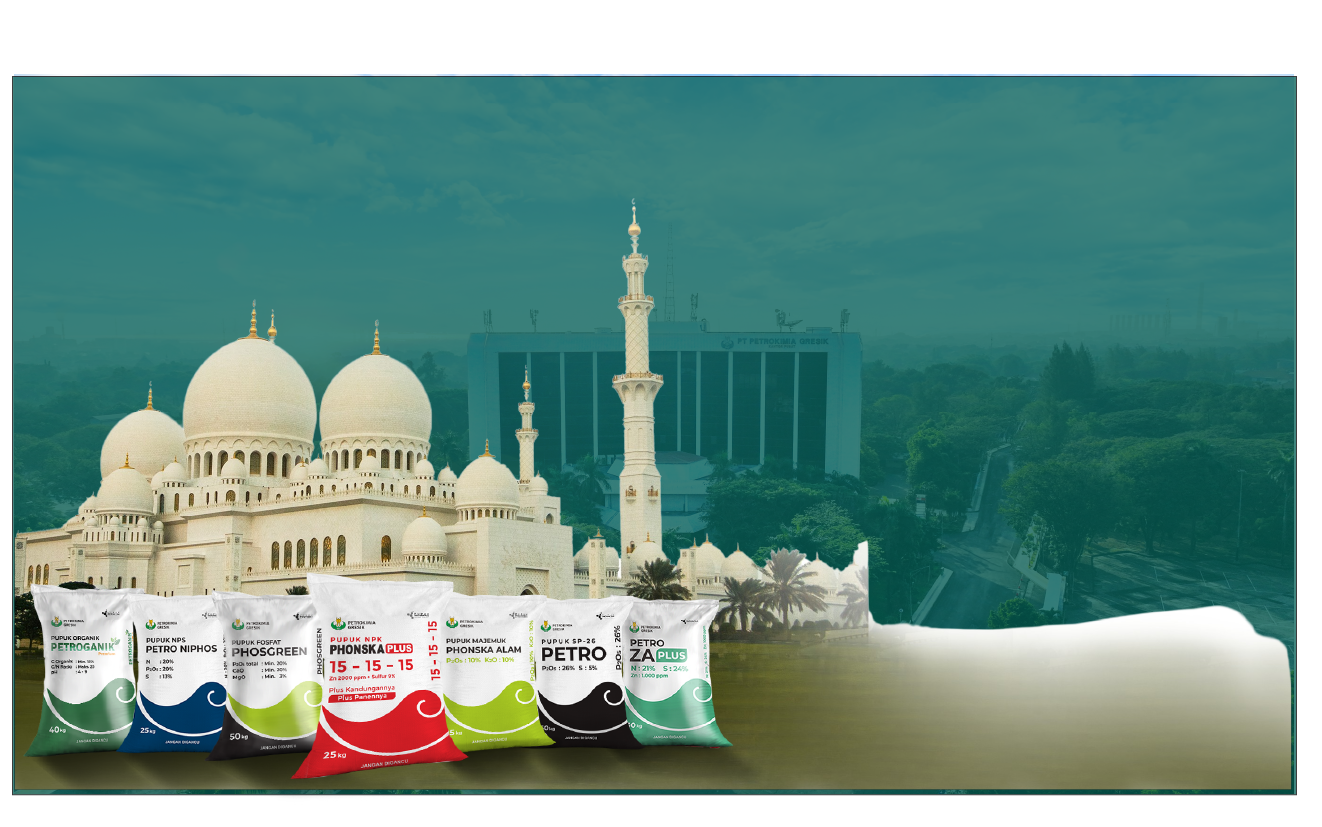
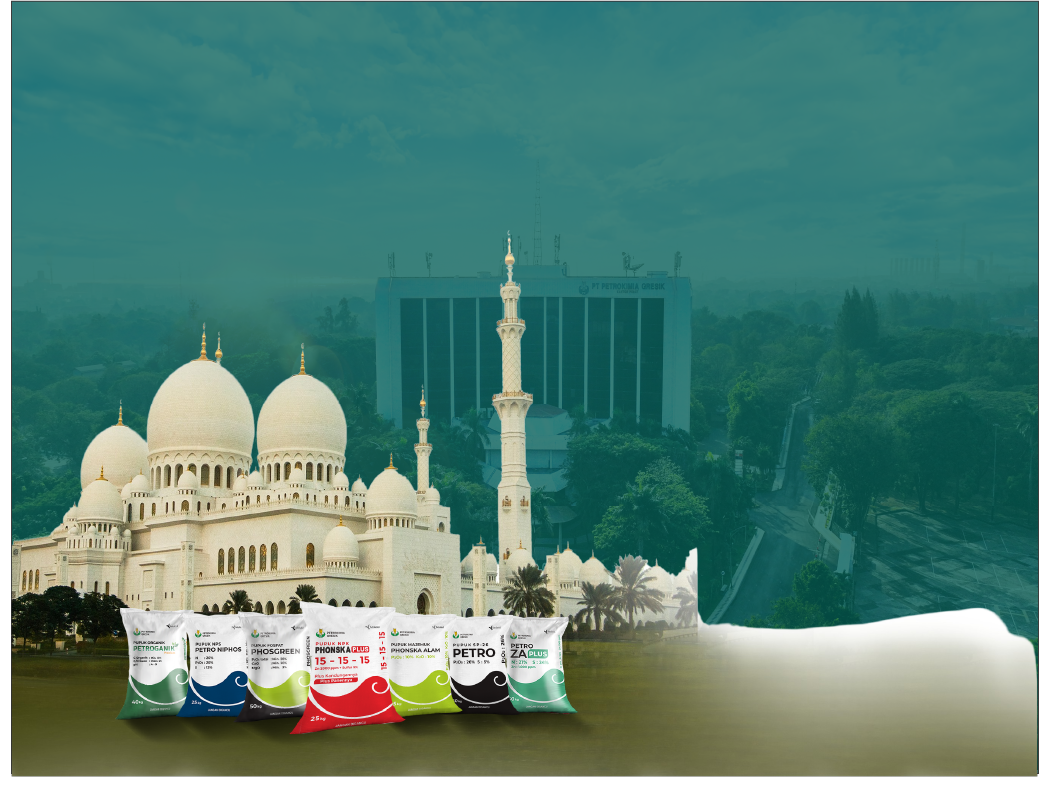
master1

diff --git a/pages/calendar/detail.tsx b/pages/calendar/detail.tsx
@@ -122,8 +122,8 @@ export default function Demo({ data, setModal }: any) {
   const selectedScheduleImage =
     scheduleImage[Math.min(Math.max(page - 1, 0), scheduleImage.length - 1)];
   return (
-  <BackgroundImage src="/background5.png" pr={{xl:"4%", lg:"1%", base:"0%"}}>
-      <Container bg={{xl:"transparent", base:"#005E6A"}} fluid>
+  <BackgroundImage src="/background1.png" pr={{xl:"4%", lg:"1%", base:"0%"}} w={{xl:"100%"}}>
+      <Container bg={{xl:"transparent",lg:"transparent", base:"#005E6A"}} w={{lg:"80%", xl:"100%"}}>
             <Container
               pos="relative"
               ml={{ xl: "30%", lg: "25%", base: "10%" }}
@@ -168,7 +168,7 @@ export default function Demo({ data, setModal }: any) {
             <Container w="100%">
               
               <Grid pt="20px" mr={{xl:"0%", lg:"0%", base:"0%"}}>
-                <Grid.Col span={{ xl: 5, lg: 6, base: 12 }}>
+                <Grid.Col span={{ xl: 7, lg: 6, base: 12 }}>
                   <Container
                     mt={{ xl: "30%", lg: "30%", base: "5%" }}
                     mr={{ xl: "20%", lg: "20%" }}
@@ -180,8 +180,9 @@ export default function Demo({ data, setModal }: any) {
                     /> */}
                   </Container>
                 </Grid.Col>
-                <Grid.Col span={{ xl: 7, lg: 6, base: 12 }} ml={{xl:"75%", lg:"75%", base:"0%"}}>
-                  <Container ml={{ xl: "17%", lg: "15%", base: "5%" }}>
+                {/* Menggeser Gambar Waktu Shalat */}
+                <Grid.Col span={{ xl: 5, lg: 6, base: 12 }} ml={{xl:"80%", lg:"70%", base:"0%"}}>
+                  <Container ml={{ xl: "22%", lg: "5%", base: "5%" }} w="100%">
                     <Image
                       w={{ xl: "80%", lg: "75%", base: "95%" }}
                       src={selectedDayImage}
@@ -199,15 +200,16 @@ export default function Demo({ data, setModal }: any) {
                             </Group>
                         </Flex>        
                     </Container>  */}
-                  <Container pb="10px" mt="10px">
-                    <Text ta="center" c="#FFD700">
+                  <Container pb="10px" mt={{base:"10px", lg:"70px", xl:"10%"}} ml={{xl:"15%", lg:"-4%"}} w="100%">
+                    <Text ta="center" c="#FFD700" fz={{xl:"18px"}}>
                       Untuk Wilayah <b>Gresik</b>, <b>Surabaya</b>, <b>Sidoarjo</b>,{" "}
                       <br />
                       (dan sekitarnya)
                     </Text>
                   </Container>
-                  <Container mt={{xl:"10%", base:"10px", lg:"10px"}}>
-                    <Flex justify="center" direction={"column"}>
+                  {/* UP/Down Gambar Waktu Shalat */}
+                  <Container mt={{xl:"25%", base:"10px", lg:"10px"}} w="100%">
+                    <Flex justify="center" direction={"column"} w={{lg:"85%", xl:"130%"}}>
                       <div
                         style={{ display: "flex", borderBottom: "3px solid yellow" }}
                       >
@@ -629,8 +631,8 @@ export default function Demo({ data, setModal }: any) {
                       {/* <Image w="350px" src={selectedScheduleImage} /> */}
                     </Flex>
                   </Container>
-                  <Container mt="5%">
-                    <Text c={{xl:"#040303", base:"#FFD700"}} ta="center" fw={500}>
+                  <Container mt="5%" w="100%" ml={{xl:"15%", lg:"-7%"}}>
+                    <Text c={{xl:"#040303",lg:"#040303", base:"#FFD700"}} ta="center" fz="12pt" fw={500}>
                       Sumber: SIHAT/KEMENAG (Kementerian Agama RI) <br />
                       <br />
                       Petrokimia Gresik mengucapkan selamat menjalankan ibadah puasa
@@ -651,27 +653,27 @@ export default function Demo({ data, setModal }: any) {
                   target="_blank"
                   href="https://www.instagram.com/petrokimiagresik_official?igsh=eGI5eHVscDhtNzJl&utm_source=qr"
                 >
-                  <Image fit="contain" w={{xl:"26px", base:"14px"}} c="white" src="/instagram.png" />
+                  <Image fit="contain" w={{xl:"26px", base:"14px",lg:"20px"}} c="white" src="/instagram.png" mb={{lg:"100%"}}/>
                 </a>
-                <Text ml="10px" mt={{xl:"0px", base:"-10px"}} c="white" ta="center" fz={{xl:"12pt", base:"8pt"}}>
+                <Text ml="10px" mt={{xl:"0px", base:"-10px", lg:"-1px"}} c="white" ta="center" fz={{xl:"12pt",lg:"11pt", base:"8pt"}} fw={800}>
                   {" "}
                   petrokimiagresik
                   _official
                 </Text>
                 <a target="_blank" href="https://petrokimia-gresik.com">
-                  <Image fit="contain" w={{xl:"26px", base:"14px"}} ml="15px" src="/browser.png" />
+                  <Image fit="contain" w={{xl:"26px", base:"14px", lg:"20px"}} ml="15px" src="/browser.png" mb={{lg:"100%"}} />
                 </a>
                 <a target="_blank" href="https://petrokimia-gresik.com">
-                  <Text ml="10px" mt={{xl:"0px", base:"-10px"}} c="white" ta="center" fz={{xl:"12pt", base:"8pt"}}>
+                  <Text ml="10px" mt={{xl:"0px", base:"-10px", lg:"-1%"}} c="white" ta="center" fz={{xl:"12pt",lg:"11pt", base:"8pt"}} fw={800}>
                     {" "}
                     petrokimia-gresik.com{" "}
                   </Text>
                 </a>
                 <a target="_blank" href="https://twitter.com/petrogresik">
-                  <Image fit="contain" w={{xl:"26px", base:"14px"}} ml="15px" src="/twitter.png" />
+                  <Image fit="contain" w={{xl:"26px", base:"14px", lg:"20px"}} ml="15px" src="/twitter.png" mb={{lg:"100%"}} />
                 </a>
                 <a target="_blank" href="https://twitter.com/petrogresik">
-                  <Text ml="10px" mt={{xl:"0px", base:"-2px"}} c="white" ta="center" fz={{xl:"12pt", base:"8pt"}}>
+                  <Text ml="10px" mt={{xl:"0px", base:"-2px", lg:"-1%"}} c="white" ta="center" fz={{xl:"12pt",lg:"11pt", base:"8pt"}} fw={800}>
                     petrogresik{" "}
                   </Text>
                 </a>

diff --git a/pages/calendar/index.tsx b/pages/calendar/index.tsx
@@ -81,7 +81,7 @@ export default function Page() {
           />
         </Flex>
       </Container>
-      <Grid pt={{ base: "2px", md: "100px", xl: "20px", lg: "180px" }}>
+      <Grid pt={{ base: "2px", xl: "20px", lg: "180px" }}>
         <Grid.Col span={{ base: 12, xl: 4, md: 6 }}>
           <Container
             pt={{ xl: "70px", lg: "0px", base:"40%" }}
@@ -138,7 +138,7 @@ export default function Page() {
             <Text
               c="#FFD700"
               ta="left"
-              ml={{ base: "25%", lg: "10%", xl: "38%", md:"10%" }}
+              ml={{ base: "25%", lg: "33%", xl: "38%", md:"10%" }}
               fw={700}
               fz={{ xl: "28px", base: "19px", lg: "20pt" }}
             >
@@ -148,7 +148,7 @@ export default function Page() {
               pt={{ xl: "2%", base: "0%", lg: "2%" }}
               c="#FFD700"
               ta="left"
-              ml={{ base: "27%", lg: "10%", xl: "41%", md:"10%" }}
+              ml={{ base: "27%", lg: "34%", xl: "41%", md:"10%" }}
               fw={300}
               fz={{ xl: "28px", base: "19px", lg: "20pt" }}
             >
@@ -166,7 +166,7 @@ export default function Page() {
               w={{ xl: "100%", xs: "100%", lg: "50%" }}
             >
               <Text
-                ml={{ lg: "10%", xl: "3%", md:"10%" }}
+                ml={{ lg: "35%", xl: "3%", md:"10%" }}
                 ta="center"
                 c="#FFD700"
                 fz={{ xl: "21px", base: "15px" }}
@@ -200,7 +200,7 @@ export default function Page() {
                 src="/instagram.png"
               />
             </a>
-            <Text ml="10px" mt={{base:"-6px", xl:"2px"}} c="white" ta="center" fz={{xl:"12pt", base:"8pt"}}>
+            <Text ml="10px" mt={{base:"-6px", xl:"2px", lg:"2px"}} c="white" ta="center" fz={{xl:"12pt", base:"8pt"}}>
               petrokimiagresik
               _official
             </Text>
@@ -213,7 +213,7 @@ export default function Page() {
               />
             </a>
             <a href="https://petrokimia-gresik.com" target="_blank">
-              <Text ml="10px" mt={{base:"-5px", xl:"2px"}} c="white" ta="center" fz={{base:"8pt", xl:"12pt"}}>
+              <Text ml="10px" mt={{base:"-5px", xl:"2px", lg:"2px"}} c="white" ta="center" fz={{base:"8pt", xl:"12pt"}}>
                 {" "}
                 petrokimia-gresik.com
               </Text>
@@ -222,7 +222,7 @@ export default function Page() {
               <Image fit="contain" w={{xl:"24px", base:"20px"}} ml="15px" src="/twitter.png" />
             </a>
             <a href="https://twitter.com/petrogresik" target="_blank">
-              <Text ml="10px" mt={{base:"1px", xl:"0px"}} c="white" ta="center" fz={{xl:"12pt", base:"8pt"}}>
+              <Text ml="10px" mt={{base:"1px", xl:"0px", lg:"2px"}} c="white" ta="center" fz={{xl:"12pt", base:"8pt"}}>
                 petrogresik{" "}
               </Text>
             </a>

diff --git a/pages/calendar/tanggal.tsx b/pages/calendar/tanggal.tsx
@@ -25,13 +25,14 @@ export default function Home() {
   console.log(typeof days);
   //   const [opened, { open, close }] = useDisclosure(false);
   return (
-    <Container pos="static">
+    <Container pos="relative">
       <Flex
         justify="center"
         mt="40px"
         w={{
           base: "270px",
           xl: "450px",
+          lg: "115%",
           md: "280px",
           sm: "200px",
           xs: "200px",
@@ -40,6 +41,7 @@ export default function Home() {
         <Grid pos="relative" mr={{ base: "11%", xl: "0%", lg: "0%" }}>
           {days.map((day, index) => (
             <Container
+              ml={{lg:"2%"}}
               w={{ base: "40px", xl: "70px" }}
               style={{ height: "70px", cursor: "pointer" }}
               onClick={() => handleImageClick(day)}
